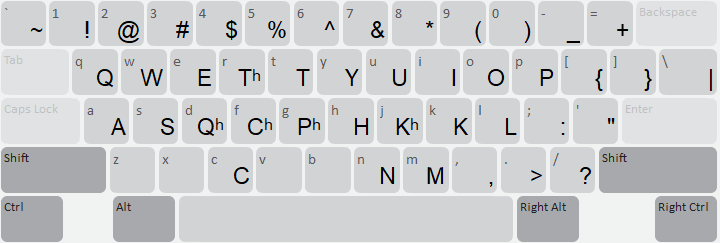
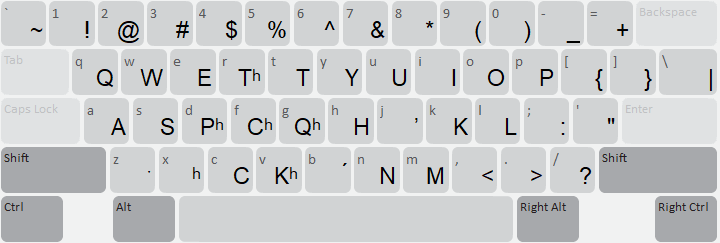
[o_tissi] keyboard changes submitted on behalf of author

diff --git a/release/o/o_tissi/source/welcome/welcome.htm b/release/o/o_tissi/source/welcome/welcome.htm
@@ -22,31 +22,24 @@
 <h1>Keyboard Layout</h1>
 
   <h2>Desktop Keyboard layout</h2>
-<p><b>Tone diacritics on vowels:</b> Hold the right-alt button while pressing the key of the vowel you desire.</p>
-<p><b>Glottalized diacritics on consonants:</b> Hold the right-alt button while pressing the consonant you desire.</p>
-<p><b>Aspirated consonants:</b> The rdfgj keys have been replaced with tʰqcʰpʰk</p>
-<p><b>Length dot:</b> The b key has been replaced with the length dot.</p>
-<p><b>Glottal stop:</b> The right slanted apostrophe used to represent a glottal stop ʼ has replaced the v key.</p>
-<p><b>Acute accent:</b> The acute accent can be typed with the comma key following the base character.</p>
+<p><b>High tone diacritic on vowels:</b>Press B after typing the desired vowel. </p>
+<p><b>Glottalized diacritic on consonants:</b> Press J after typing the desired consonant.</p>
+<p><b>Aspirated consonants:</b> The RDFGV keys have been replaced with pʰtʰcʰkʰqʰ.</p>
+<p><b>Syllable dot:</b> The Z key has been replaced with the syllable dot.</p>
+<p><b>Glottal stop:</b> The right slanted apostrophe used to represent a glottal stop ʼ can be typed by holding SHIFT then pressing J.</p>
 
 	<h3>Default (unshifted)</h3>
 	<p><a href="LayoutU_.png"><img class="keyboard" src="LayoutU_.png" alt="Default (unshifted) state" /></a></p>
 	<h3>Shift</h3>
 	<p><a href="LayoutU_S.png"><img class="keyboard" src="LayoutU_S.png" alt="Shift state" /></a></p>
-	<h3>Right ALT (unshifted)</h3>
-	<p><a href="LayoutU_RA.png"><img class="keyboard" src="LayoutU_RA.png" alt="Right ALT (unshifted) state" /></a></p>
-	<h3>Shift Right ALT</h3>
-	<p><a href="LayoutU_SRA.png"><img class="keyboard" src="LayoutU_SRA.png" alt="Shift Right ALT state" /></a></p>
 
 
 <h2>Touch screen keyboard </h2>
 <p><b>Long press keys:</b> Touch and hold the key, more options will pop up for that letter with diacritics. For example, if you need a high tone ó, hold down the o button, or if you need a glottalized t̓, hold down the t button.</p>
 <p><b>New keys:</b> Some of the letters that are not used in Ó tissi have been replaced with the aspirated letters, syllable dot and punctuation symbols.</p>
 
-<!-- Insert Keyboard Layout Images or HTML here -->
 
 
-<p>© 2020 Indigenous Language Network</p>
 </body>
 
 </html>

diff --git a/release/o/o_tissi/source/readme.htm b/release/o/o_tissi/source/readme.htm
@@ -24,13 +24,12 @@ This keyboard uses the orthography created by linguist Bruce Nevin in conjunctio
 <p><b>Long press keys:</b> Touch and hold the key, more options will pop up for that letter with diacritics. For example, if you need a high tone ó, hold down the o button, or if you need a glottalized t̓, hold down the t button.</p>
 <p><b>New keys:</b> Some of the letters that are not used in Ó tissi have been replaced with the aspirated letters, syllable dot and punctuation symbols.</p>
 <h2>Instructions for the on screen keyboard: </h2>
-<p><b>Tone diacritics on vowels:</b> Hold the right-alt button while pressing the key of the vowel you desire.</p>
-<p><b>Glottalized diacritics on consonants:</b> Hold the right-alt button while pressing the consonant you desire.</p>
-<p><b>Aspirated consonants:</b> The rdfgj keys have been replaced with tʰqcʰpʰk</p>
-<p><b>Length dot:</b> The b key has been replaced with the length dot.</p>
-<p><b>Glottal stop:</b> The right slanted apostraphe used to represent a glottal stop ʼ has replaced the v key.</p>
+<p><b>High tone diacritic on vowels:</b>Press B after typing the desired vowel. </p>
+<p><b>Glottalized diacritic on consonants:</b> Press J after typing the desired consonant.</p>
+<p><b>Aspirated consonants:</b> The RDFGV keys have been replaced with pʰtʰcʰkʰqʰ.</p>
+<p><b>Syllable dot:</b> The Z key has been replaced with the syllable dot.</p>
+<p><b>Glottal stop:</b> The right slanted apostrophe used to represent a glottal stop ʼ can be typed by holding SHIFT then pressing J.</p>
 
-<p>© 2020 Indigenous Language Network</p>
 
 </body>
 </html>

diff --git a/release/o/o_tissi/source/help/o_tissi.php b/release/o/o_tissi/source/help/o_tissi.php
@@ -24,7 +24,7 @@
 <p><b>Acute accent:</b> The acute accent can be typed with the comma key following the base character.</p>
 
 <h2>Desktop Keyboard Layout</h2>
-<div id='osk' data-states='default shift rightalt rightalt-shift'>
+<div id='osk' data-states='default shift'>
 </div>
 
 

diff --git a/release/o/o_tissi/LICENSE.md b/release/o/o_tissi/LICENSE.md
@@ -1,6 +1,6 @@
 The MIT License (MIT)
 
-© 2020 Indigenous Language Network
+© 2020-2021 Indigenous Language Network
 
 Permission is hereby granted, free of charge, to any person obtaining a copy
 of this software and associated documentation files (the "Software"), to deal

diff --git a/release/o/o_tissi/HISTORY.md b/release/o/o_tissi/HISTORY.md
@@ -1,6 +1,11 @@
 Ó tissi Change History
 ====================
 
+2.0 (2021-02-23)
+----------------
+* Updated by Connor Yiamkis
+* RALT layers removed
+
 1.0 (2020-08-19)
 ----------------
 * Created by Connor Yiamkis

diff --git a/release/o/o_tissi/README.md b/release/o/o_tissi/README.md
@@ -1,9 +1,9 @@
 Ó tissi keyboard
 ==============
 
-© 2020 Indigenous Language Network
+© 2020-2021 Indigenous Language Network
 
-Version 1.0
+Version 2.0
 
 Description
 -----------
